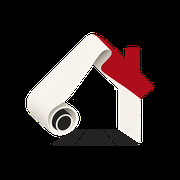
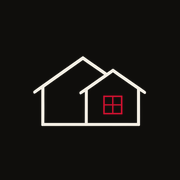
새 로고(A · 이중 지붕 라인) 적용
- Higgsfield로 심볼 시안 4종을 만들고 업체 기존 로고(지붕 두 개 + 창문)를 바탕으로 한 A안 선택
- 헤더 · 히어로 카드 · 푸터에 새 심볼과 워드마크 적용, 파비콘 · 홈 화면 아이콘 · 공유 이미지 교체
- 로고 원본 파일(밝은/어두운 배경, 2배 해상도)과 시안 시트를 design/ 폴더에 보관
- 사용하지 않는 기존 3D 로고 파일 정리

Claude-Session: https://claude.ai/code/session_01MXTcFaacwgLBLr2ng5s53H

Changed region(s): [[0.1389, 0.1667, 0.8611, 0.8056]]

diff --git a/chakhan-interior/src/style.css b/chakhan-interior/src/style.css
@@ -97,8 +97,10 @@ em { font-style: normal; }
 .site-header { position: fixed; z-index: 50; inset: 0 0 auto; height: var(--header); display: flex; align-items: center; gap: 24px; padding-inline: var(--gutter); border-bottom: 1px solid transparent; transition: background-color .3s, border-color .3s; }
 .site-header.scrolled { background: rgba(15, 14, 12, .82); border-color: var(--line); backdrop-filter: blur(18px) saturate(140%); -webkit-backdrop-filter: blur(18px) saturate(140%); }
 .brand { display: flex; align-items: center; gap: 12px; flex: none; }
-.brand-mark { display: grid; place-items: center; width: 40px; height: 40px; overflow: hidden; border-radius: 10px; }
-.brand-mark img { width: 52px; height: 52px; max-width: none; object-fit: contain; }
+.brand { gap: 14px; }
+.brand-mark { display: block; }
+.brand-mark img { width: auto; height: 30px; }
+.brand-name { padding-left: 14px; border-left: 1px solid var(--line-strong); }
 .brand-name { display: flex; flex-direction: column; line-height: 1.15; }
 .brand-name strong { font-size: 18px; font-weight: 700; letter-spacing: -.04em; }
 .brand-name span { font-size: 11px; color: var(--muted); }
@@ -149,8 +151,8 @@ em { font-style: normal; }
 .hero-photo img { width: 100%; height: 100%; object-fit: cover; transform: scale(1.06); transform-origin: 50% 30%; transition: transform .2s linear; will-change: transform; }
 .hero-photo::after { content: ''; position: absolute; inset: 0; background: linear-gradient(180deg, rgba(15, 14, 12, 0) 55%, rgba(15, 14, 12, .45)); pointer-events: none; }
 .hero-card { position: absolute; left: -28px; bottom: 28px; display: flex; align-items: center; gap: 14px; padding: 12px 12px 12px 12px; border-radius: 18px; background: rgba(23, 21, 18, .78); border: 1px solid var(--line-strong); backdrop-filter: blur(16px); -webkit-backdrop-filter: blur(16px); box-shadow: 0 30px 60px -20px rgba(0, 0, 0, .7); }
-.hero-card-logo { display: grid; place-items: center; width: 46px; height: 46px; border-radius: 12px; overflow: hidden; background: #000; }
-.hero-card-logo img { width: 58px; height: 58px; max-width: none; }
+.hero-card-logo { display: grid; place-items: center; width: 46px; height: 46px; border-radius: 12px; background: var(--bg); border: 1px solid var(--line); }
+.hero-card-logo img { width: auto; height: 20px; }
 .hero-card strong { display: block; font-size: 14px; font-weight: 600; }
 .hero-card small { display: block; font-size: 12px; color: var(--muted); }
 .hero-card a { display: grid; place-items: center; width: 40px; height: 40px; margin-left: 6px; border-radius: 50%; background: var(--cream); color: var(--dark-ink); transition: transform .3s var(--ease-out); }
@@ -449,7 +451,12 @@ input[type="range"]:focus-visible::-webkit-slider-thumb { box-shadow: 0 0 0 5px 
 .footer-social a { display: grid; place-items: center; width: 40px; height: 40px; border: 1px solid var(--line-strong); border-radius: 50%; color: var(--muted); transition: color .2s, border-color .2s, background-color .2s; }
 .footer-social a:hover { color: var(--dark-ink); background: var(--cream); border-color: var(--cream); }
 .footer-social svg { width: 17px; height: 17px; }
-.footer-brand { display: flex; gap: 14px; align-items: flex-start; }
+.footer-brand { display: flex; flex-direction: column; gap: 18px; align-items: flex-start; }
+.footer-lockup { display: flex; align-items: center; gap: 16px; }
+.footer-lockup img { width: auto; height: 44px; }
+.footer-lockup span { display: flex; flex-direction: column; gap: 4px; padding-left: 16px; border-left: 1px solid var(--line-strong); }
+.footer-lockup b { font-size: 22px; font-weight: 600; letter-spacing: -.04em; line-height: 1.1; }
+.footer-lockup small { font-size: 10.5px; letter-spacing: .42em; color: var(--sand); }
 .footer-brand strong { font-size: 15px; }
 .footer-brand p { margin: 4px 0 0; font-size: 13px; color: var(--faint); }
 .footer-info { display: flex; flex-direction: column; gap: 8px; margin: 0; padding: 0; list-style: none; font-size: 14px; color: var(--muted); }
@@ -523,6 +530,11 @@ input[type="range"]:focus-visible::-webkit-slider-thumb { box-shadow: 0 0 0 5px 
   .header-quote { display: none; }
   .header-call { display: none; }
   .brand-name span { font-size: 10.5px; }
+  .brand { gap: 10px; }
+  .brand-mark img { height: 26px; }
+  .brand-name { padding-left: 10px; }
+  .brand-name strong { font-size: 16px; }
+  .footer-lockup img { height: 38px; }
   .section { padding-block: 84px; }
   .section-head { flex-direction: column; align-items: flex-start; gap: 20px; }
   .head-note { text-align: left; font-size: 14px; }

diff --git a/chakhan-interior/src/main.js b/chakhan-interior/src/main.js
@@ -54,8 +54,8 @@ app.innerHTML = `
 
 <header class="site-header">
   <a class="brand" href="#top" aria-label="${SITE.name} 홈">
-    <span class="brand-mark"><img src="/assets/logo-mark-160.png" width="44" height="44" alt="" /></span>
-    <span class="brand-name"><strong>착한</strong><span>도배·장판 인테리어 <em>청주점</em></span></span>
+    <span class="brand-mark"><img src="/assets/brand/mark.png" width="257" height="160" alt="" /></span>
+    <span class="brand-name"><strong>착한 인테리어</strong><span>도배 · 장판 · 마루 · 필름 <em>청주점</em></span></span>
   </a>
   <nav class="nav" id="site-nav" aria-label="주요 메뉴">
     <a href="#services">서비스</a>
@@ -99,7 +99,7 @@ app.innerHTML = `
     <figure class="hero-media reveal reveal-d1">
       <div class="hero-photo"><img src="/assets/hero.webp" width="1100" height="1375" alt="헤링본 마루와 그레이지 실크 벽지로 마감한 밝은 거실 (AI 예시 이미지)" fetchpriority="high" /></div>
       <figcaption class="hero-card">
-        <span class="hero-card-logo"><img src="/assets/logo-mark-160.png" width="44" height="44" alt="" /></span>
+        <span class="hero-card-logo"><img src="/assets/brand/mark.png" width="257" height="160" alt="" /></span>
         <span><strong>그레이지 실크 · 헤링본</strong><small>분위기 미리보기에서 직접 바꿔보세요</small></span>
         <a href="#studio" aria-label="분위기 미리보기로 이동">${ICONS.right}</a>
       </figcaption>
@@ -403,7 +403,7 @@ app.innerHTML = `
 <footer class="site-footer">
   <div class="wrap footer-grid">
     <div class="footer-brand">
-      <span class="brand-mark"><img src="/assets/logo-mark-160.png" width="44" height="44" alt="" loading="lazy" /></span>
+      <div class="footer-lockup"><img src="/assets/brand/mark.png" width="257" height="160" alt="" loading="lazy" /><span><b>착한 인테리어</b><small>INTERIOR DESIGN</small></span></div>
       <div><strong>${SITE.name}</strong><p>소통으로 만들어지는 아름다운 생활공간</p></div>
     </div>
     <ul class="footer-info">

diff --git a/chakhan-interior/index.html b/chakhan-interior/index.html
@@ -34,7 +34,7 @@
     "+82-507-1381-4785"
   ],
   "image": "https://chakhan-interior.pages.dev/og-image.jpg",
-  "logo": "https://chakhan-interior.pages.dev/assets/logo-mark-960.webp",
+  "logo": "https://chakhan-interior.pages.dev/assets/brand/icon-512.png",
   "address": {
     "@type": "PostalAddress",
     "streetAddress": "향군로 113, 1층",
